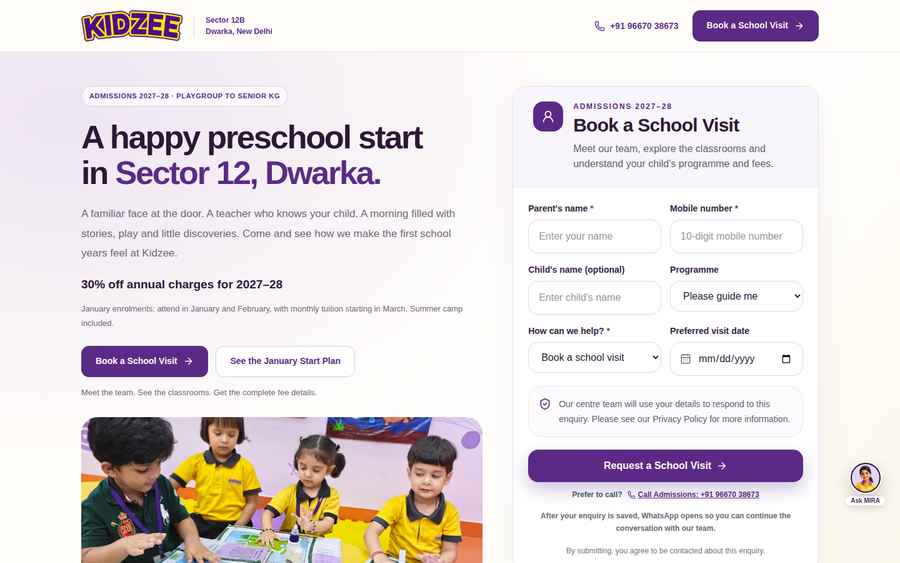
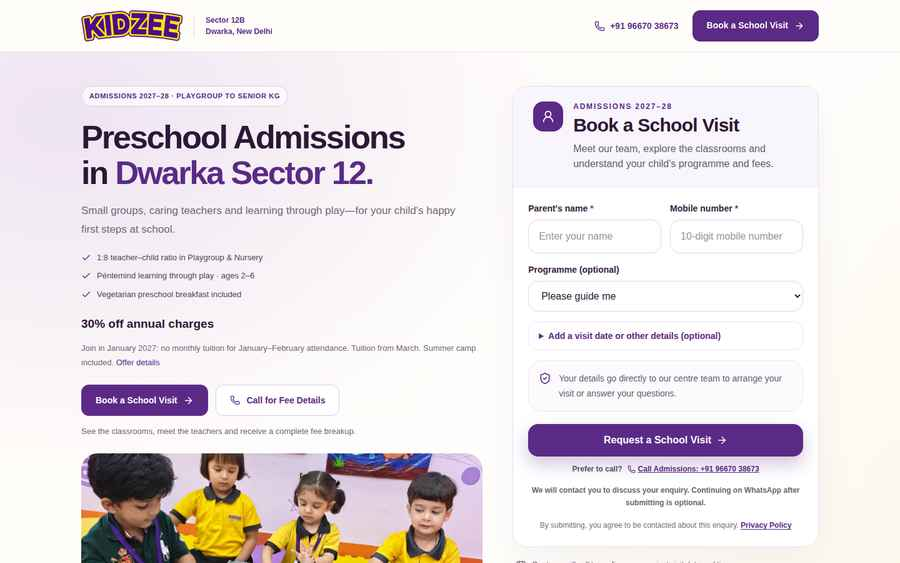
Refresh desktop and mobile admissions previews after the performance audit

diff --git a/docs/previews/README.md b/docs/previews/README.md
@@ -1,0 +1,7 @@
+# Admissions 2027–28 draft previews
+
+Production browser screenshots for code commit 89522602527bd92e9f17185e5f9a6aac111ad776. Captured from the isolated test site, not the live website. Desktop: 1440 px; mobile: 390 px. JPEGs are compressed review previews; full PNGs are retained in the successful verification run.
+
+Validation run: https://github.com/jaiswalshiva112233-design/kidzee-premium-website/actions/runs/40699853853
+
+This branch contains review images only. Do not merge it to publish the website. Draft code and review: https://github.com/jaiswalshiva112233-design/kidzee-premium-website/pull/3
